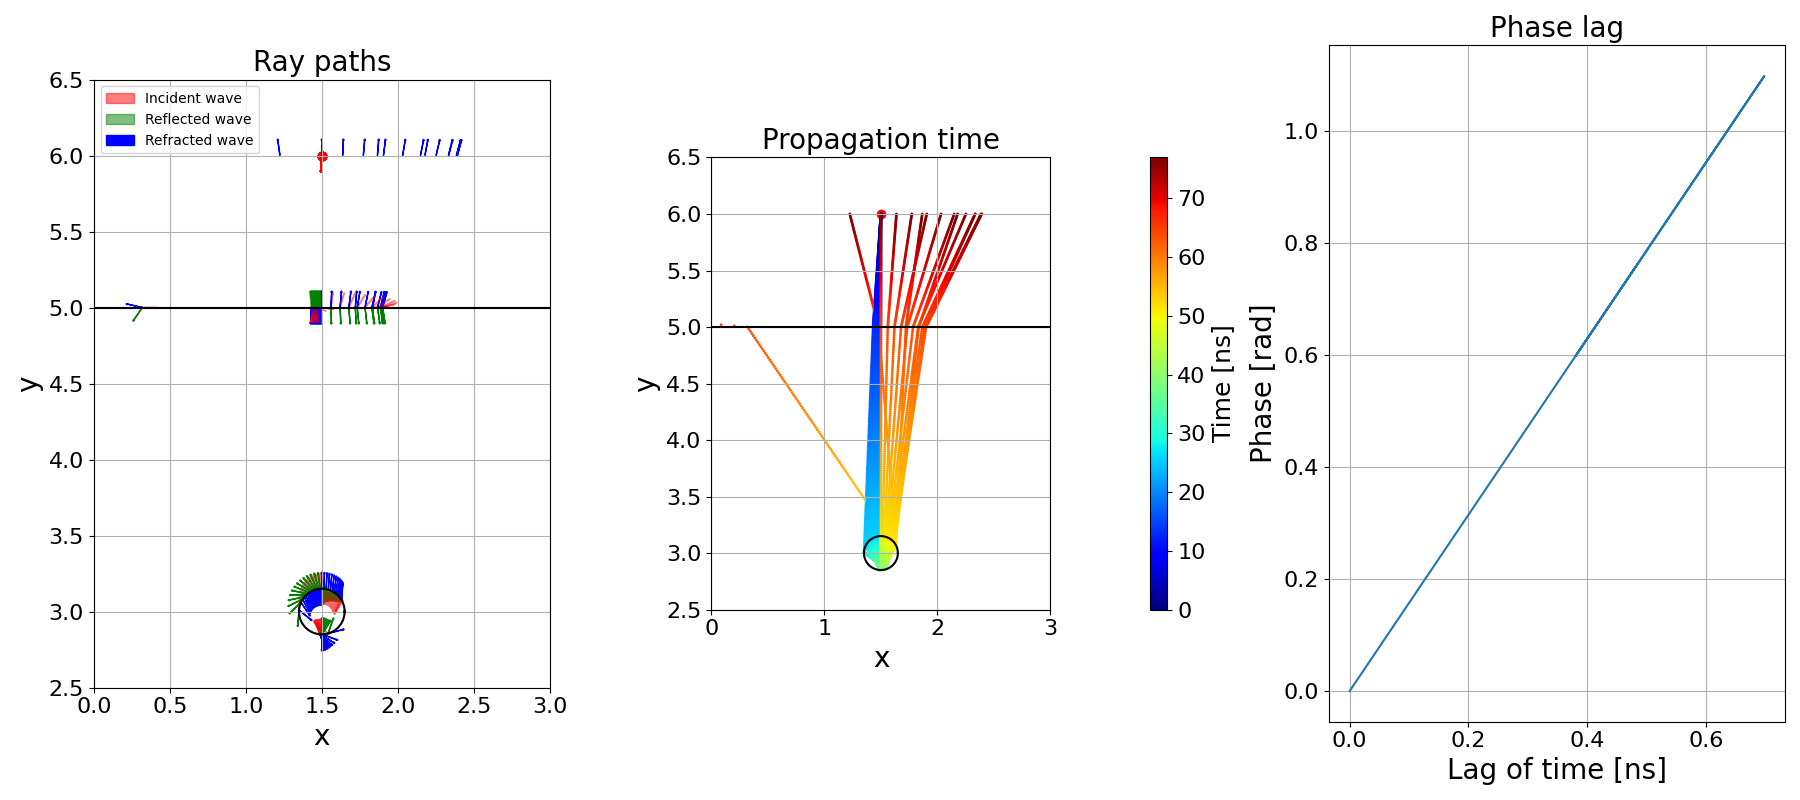
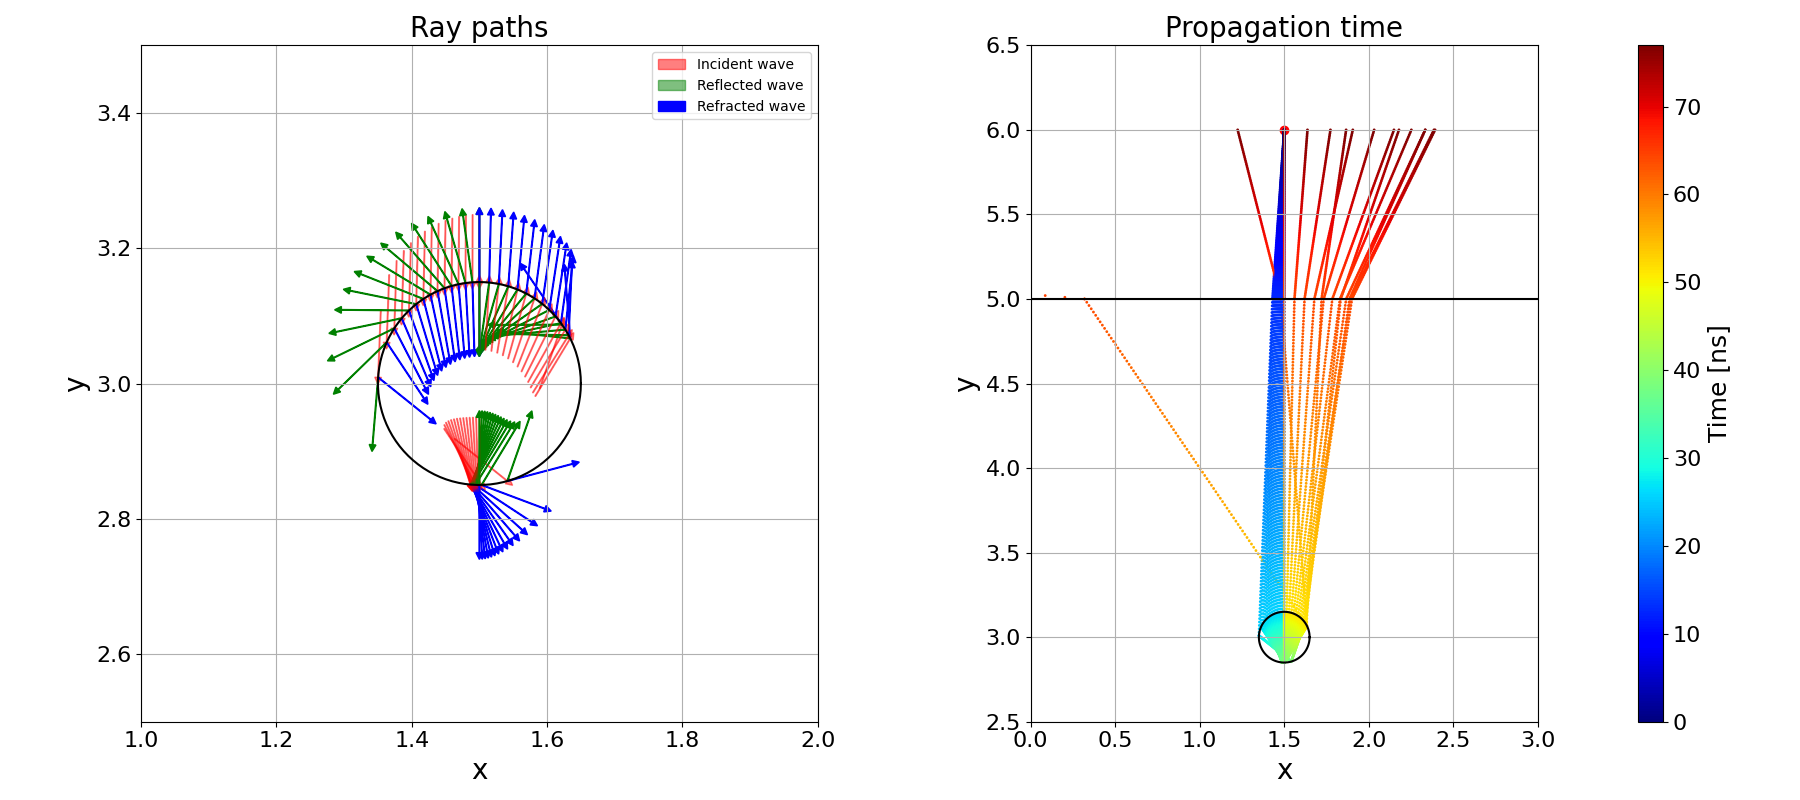
伝搬時刻のプロットを追加

diff --git a/kanda_test_programs/circle_normal.py b/kanda_test_programs/circle_normal.py
@@ -191,7 +191,7 @@ surface = 5.0
 
 
 #* Plot and calculate
-fig, ax = plt.subplots(1, 3, figsize=(18,8), tight_layout=True)
+fig, ax = plt.subplots(1, 2, figsize=(18,8), tight_layout=True)
 
 #* Plot the circle
 ax[0].plot(x_circle, y_circle, c='k')
@@ -270,9 +270,10 @@ for i in range(incident_wave_vector.shape[0]):
         intersection4, T5, 6, 1, 1)
 
 
-
+    if i == 14:
+        print('distance1:', distance1 + distance2 + distance3 + distance4 + distance5 + distance6)
     total_time = (distance1 + distance6) / c + (distance2 + distance5) / (c / np.sqrt(3)) + (distance3 + distance4) / (c /np.sqrt(9))
-    total_times.append([intersection3[0], intersection3[1], total_time / 1e-9]) # ns
+    total_times.append([intersection6[0], intersection6[1], total_time / 1e-9]) # ns
 
 
     #* 単位ベクトルの長さ調整
@@ -360,21 +361,11 @@ for i in range(incident_wave_vector.shape[0]):
     ax[1].scatter(scatters_flattened[:, 0], scatters_flattened[:, 1], c=time_list, cmap='jet', s=1)
 
 
-
-    """
-    #* Plt scatter from source to surface and show the time in color
-    ax[1].scatter(surface_intersection[0], surface_intersection[1], c=total_time, cmap='jet')
-    #* plt scatter from surface to the circle and show the time in color
-    ax[1].scatter(intersection2[0], intersection2[1], c=total_time, cmap='jet')
-    #* plt scatter from the circle to the circle and show the time in color
-    ax[1].scatter(intersection3[0], intersection3[1], c=total_time, cmap='jet')
-    """
-
 total_times = np.array(total_times)
 
 
-ax[0].set_xlim(0, 3)
-ax[0].set_ylim(2.5, 6.5)
+ax[0].set_xlim(1, 2)
+ax[0].set_ylim(2.5, 3.5)
 ax[0].set_aspect('equal')
 ax[0].grid(True)
 ax[0].legend()
@@ -402,22 +393,32 @@ cbar.set_label('Time [ns]', fontsize=18)
 cbar.ax.tick_params(labelsize=16)
 
 
-#* Calculate and plot the phase lag
-time_list = total_times[:, 2]
-time_list = time_list[1:] # Remove the first element
-time_list = time_list - time_list.min()
-pulse_width = 4
-phase_lag = time_list / pulse_width * 2 * np.pi
-
-ax[2].plot(time_list, phase_lag)
-ax[2].set_title('Phase lag', fontsize=20)
-ax[2].set_xlabel('Lag of time [ns]', fontsize=20)
-ax[2].set_ylabel('Phase [rad]', fontsize=20)
-ax[2].tick_params(labelsize=16)
-ax[2].grid(True)
-
 
 plt.savefig('kanda_test_programs/circle_normal.png')
 plt.show()
 
-print(total_times)
+
+
+
+#* Calculate and plot the phase lag
+x_list = total_times[:, 0]
+time_list = total_times[:, 2]
+lists = np.array([x_list, time_list]).T
+
+#* Sort the lists by x
+lists = lists[lists[:, 0].argsort()]
+
+#lists[:, 1] = lists[:, 1] - np.min(lists[:, 1])
+pulse_width = 4
+phase_lag = time_list / pulse_width * 2 * np.pi
+
+
+fig, ax = plt.subplots(1, 1, figsize=(6, 6), tight_layout=True)
+ax.plot(lists[1:, 0], lists[1:, 1])
+ax.set_xlabel('x', fontsize=20)
+ax.set_ylabel('Time lag [ns]', fontsize=20)
+ax.tick_params(labelsize=16)
+ax.grid(True)
+
+plt.savefig('kanda_test_programs/circle_normal_phase.png')
+plt.show()

diff --git a/kanda_test_programs/test_phase_shift.py b/kanda_test_programs/test_phase_shift.py
@@ -36,20 +36,30 @@ def env(data):
 
 multi_overlap = sig + np.roll(sig, int(-0.2e-9/dt)) + np.roll(sig, int(0.1e-9/dt))
 
+time_lag = np.arange(0.01, 1.01, 0.01)
+shifted = sig
+for i in range(len(time_lag)-1):
+    shifted =+ shift(sig, time_lag[i])
 
 #* 重ね合わせる
-fig, ax = plt.subplots(10, 1, figsize=(6, 18), sharex=True, sharey=True, tight_layout=True)
+fig, ax = plt.subplots(2, 1, figsize=(6, 6), sharex=True, sharey=True, tight_layout=True)
 ax[0].plot(t, sig, label='original')
-ax[0].plot(t, env(sig), linestyle = '--', color = 'gray')
+ax[0].plot(t, env(sig), linestyle = '--', color = 'gray', label='envelope')
 ax[0].legend()
-ax[0].grid()
-for i in range (1, 10, 1):
+ax[0].grid(True)
+"""
+for i in range (len(time_lag)-1):
     ax[i].plot(t, shift(sig, i * 0.25), label = f'shit: {i * 0.25} ns')
     ax[i].plot(t, env(shift(sig, i * 0.25)), linestyle = '--', color = 'gray')
     ax[i].legend()
     ax[i].grid()
+"""
+ax[1].plot(t, shifted, label='shifted')
+ax[1].plot(t, env(shifted), linestyle = '--', color = 'gray', label='envelope')
+ax[1].legend()
+ax[1].grid(True)
 
-plt.xlim(0.25, 25) # [ns]
+plt.xlim(0, 15) # [ns]
 
 fig.supxlabel('Time [ns]', fontsize=20)
 fig.supylabel('Normalized amplitude', fontsize=20)
